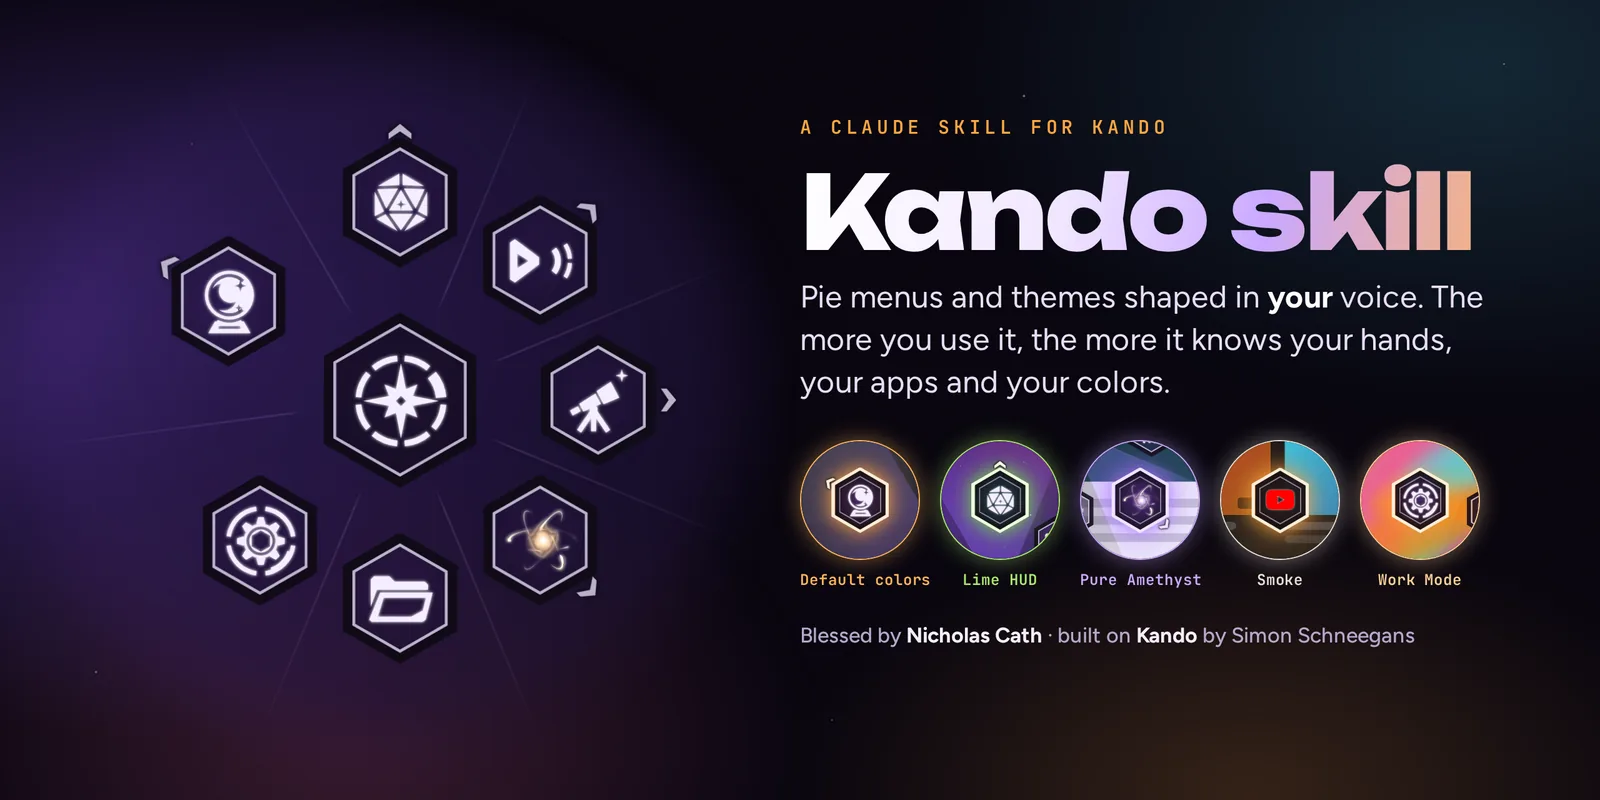
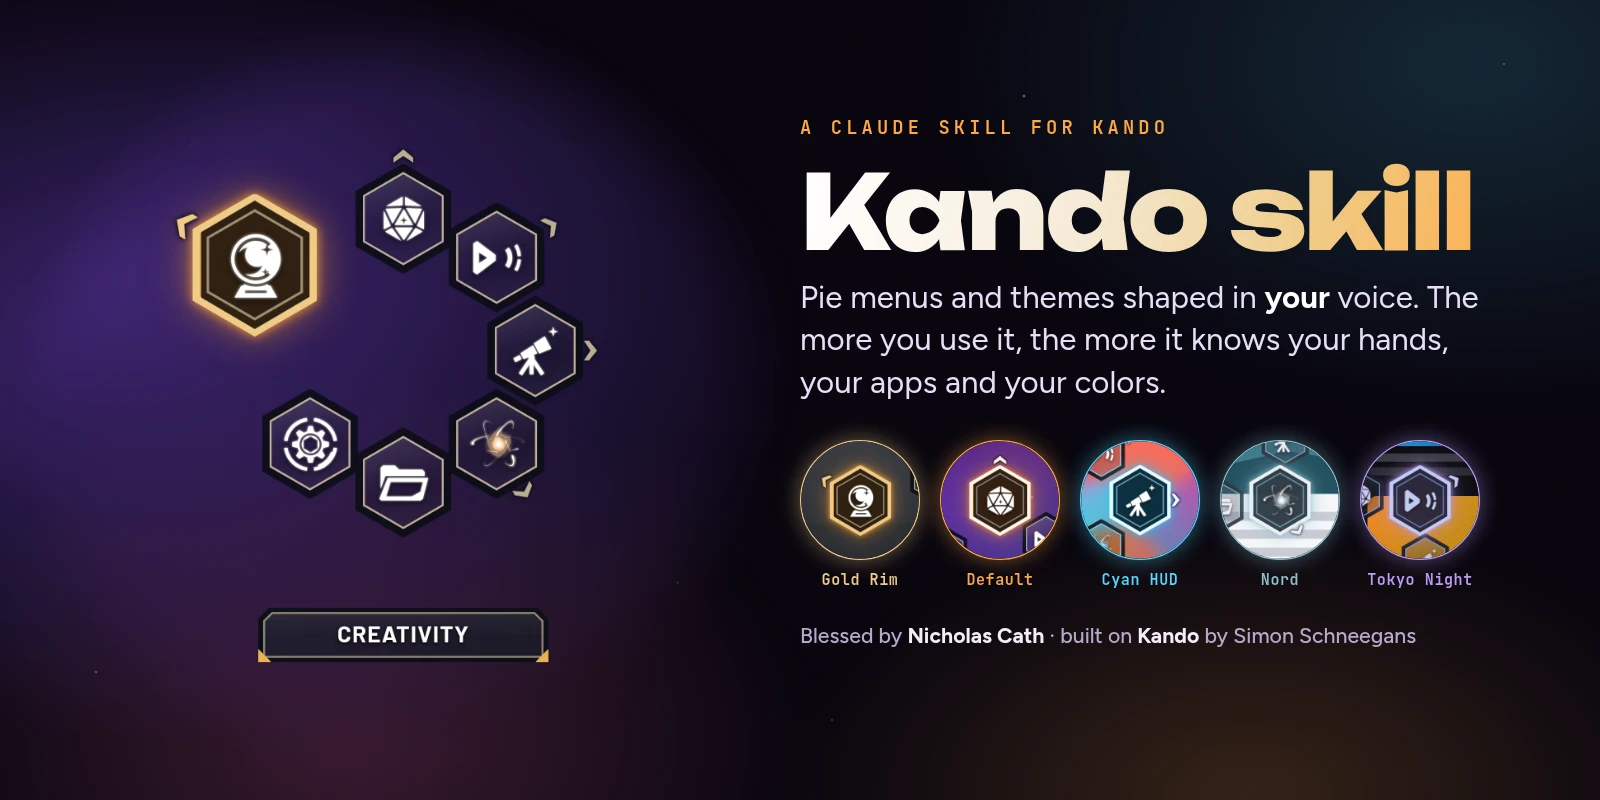
Front page shows the main menu in Gunmetal Arsenal, Gold Rim
Claude-Session: https://claude.ai/code/session_0126MDtfeR7sCPyGGebAyXmA

diff --git a/README.md b/README.md
@@ -1,7 +1,7 @@
 <h1 align="center">Kando skill for Claude</h1>
 
 <p align="center">
-  <img src="docs/img/hero.webp" alt="Kando skill for Claude, blessed by Nicholas Cath. On the left, the author's real Kando menu in the Amethyst Arsenal theme, glass hex tiles around a north star. On the right, five hovered tiles, one per color choice in Kando's theme settings: Default colors (the gold aura), Lime HUD, Pure Amethyst, Smoke and Work Mode" width="100%">
+  <img src="docs/img/hero.webp" alt="Kando skill for Claude, blessed by Nicholas Cath. On the left, the author's real Kando menu in the Gunmetal Arsenal theme with the Gold Rim colors, Creativity selected with its name plate below. On the right, five hovered tiles, one per color preset: Gold Rim, Default, Cyan HUD, Nord and Tokyo Night" width="100%">
 </p>
 
 <p align="center">
